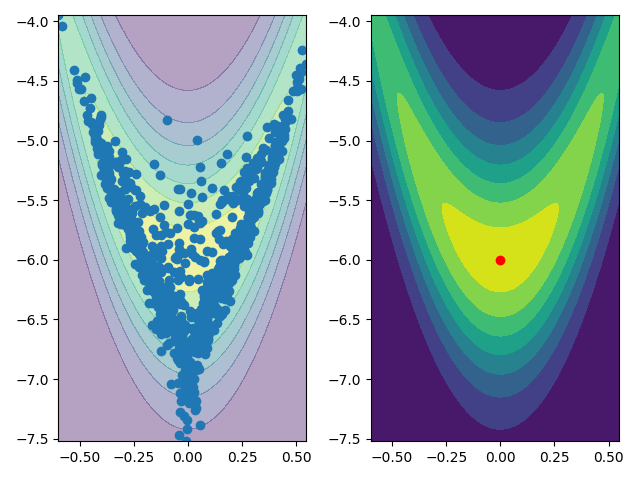
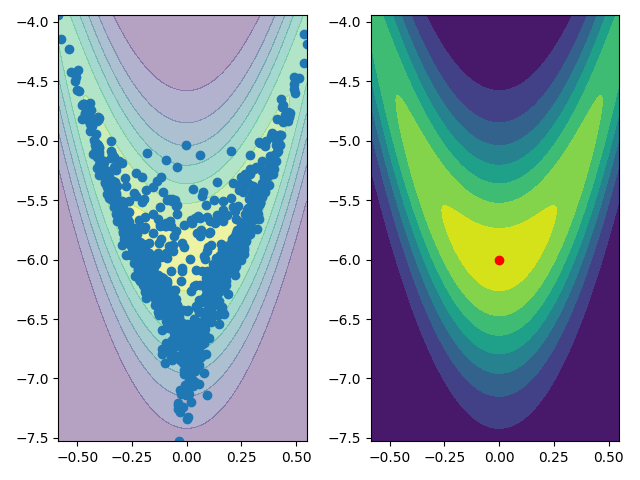
update

diff --git a/rala/laplace.py b/rala/laplace.py
@@ -23,7 +23,18 @@ class LaplaceMethod(Enum):
     OPT = "opt"  # Optimization-based Laplace approximation.
 
 
-def spectral_decomp(m: jax.Array, min: float = 1e-6, max: float = 1e8):
+@struct.dataclass
+class LaplaceOptions:
+    rwmc_refine: bool = False
+    hmc_refine: bool = False
+
+    min_hessian_eigenvalue: float = 1e-6
+    max_hessian_eigenvalue: float = 1e8
+
+    find_map: bool = False
+
+
+def stable_spectral_inverse(m: jax.Array, min: float = 1e-6, max: float = 1e8):
     # Ensure the eigenvalues of the matrix m are in between `min` and `max`
     out = jnp.linalg.eigh(m)
 
@@ -43,6 +54,19 @@ def sample_from_gaussian(
     flat_mean = mean.ravel()
     delta = cov_L @ z
     return (flat_mean + delta).reshape(mean.shape)
+
+
+def get_hmc_config(key: jax.Array, samples: jax.Array):
+    return HMCConfig(
+        initial_step_size=0.01,
+        max_path_len=1,
+        iterations=50,
+        initial_precm=jnp.cov(samples, rowvar=False),
+        key=key,
+        fast_tuning_steps=0,
+        slow_tuning_phases=0,
+        slow_tuning_initial_length=0,
+    )
 
 
 @partial(jax.jit, static_argnames=("logp_fn_flat", "dim"))
@@ -193,22 +217,36 @@ def find_map(
     return theta
 
 
+def ravel_model(model: nnx.Module):
+    param_state = nnx.state(model, nnx.Param)
+
+    graphdef = nnx.graphdef(model)
+    theta_map, unravel = ravel_pytree(param_state)
+    return graphdef, theta_map, unravel
+
+
+def get_hessian(graphdef, theta_map, unravel, extra_state, logp_fn):
+    def loss_fn(theta):
+        state_unflat = unravel(theta)
+        model_reconstructed = nnx.merge(graphdef, state_unflat, extra_state)
+        return -logp_fn(model_reconstructed)
+
+    return jax.hessian(loss_fn)(theta_map)
+
+
 def laplace_approximation(
     logp_fn: Callable[[nnx.Module], float],
     model: nnx.Module,
     key: jax.Array,
     num_samples: int,
     method: LaplaceMethod = LaplaceMethod.STANDARD,
+    hessian_fn: callable = None,
     metric_fn: callable = None,
-    rwmc_refine: bool = False,
-    hmc_refine: bool = False,
+    options: LaplaceOptions = LaplaceOptions(),
     extra_state: nnx.State = nnx.State({}),
-    min_eigenvalue: float = 1e-6,
 ) -> tuple[nnx.State, nnx.GraphDef, jax.Array]:
-    param_state = nnx.state(model, nnx.Param)
-
-    graphdef = nnx.graphdef(model)
-    theta_map, unravel = ravel_pytree(param_state)
+    graphdef, theta_map, unravel = ravel_model(model)
+    (dim,) = theta_map.shape
 
     @jax.jit
     def log_p_flat(theta, extra_state: struct.PyTreeNode):
@@ -220,21 +258,30 @@ def laplace_approximation(
     def neg_log_p_flat(theta, extra_state: struct.PyTreeNode):
         return -log_p_flat(theta, extra_state)
 
-    theta_map = find_map(
-        partial(neg_log_p_flat, extra_state=extra_state),
-        theta_map,  # pre-trained weights as warm start
-    )
+    if hessian_fn is None:
+        hessian = get_hessian(
+            graphdef, theta_map, unravel, extra_state, logp_fn
+        )
+    else:
+        hessian = hessian_fn(model, extra_state=extra_state)
 
-    (dim,) = theta_map.shape
-    hessian = jax.hessian(partial(neg_log_p_flat, extra_state=extra_state))(
-        theta_map
+    if options.find_map:
+        # This should further stabilize the gradients and the Hessian inversion
+        theta_map = find_map(
+            partial(neg_log_p_flat, extra_state=extra_state),
+            theta_map,  # pre-trained weights as warm start
+        )
+
+    cov_sqrtm = stable_spectral_inverse(
+        hessian,
+        min=options.min_hessian_eigenvalue,
+        max=options.max_hessian_eigenvalue,
     )
-    hessian_L = spectral_decomp(hessian, min=min_eigenvalue)
 
     key, *keys = jax.random.split(key, num_samples + 1)
     keys = jnp.array(keys)
 
-    samples = sample_from_gaussian(keys, theta_map, hessian_L)
+    samples = sample_from_gaussian(keys, theta_map, cov_sqrtm)
 
     match method:
         case LaplaceMethod.RIEMANN:
@@ -260,24 +307,15 @@ def laplace_approximation(
             )
             samples = fexpmap(samples, theta_map, metric_fn, dim)
 
-    if rwmc_refine:
+    if options.rwmc_refine:
         config = RandomWalkConfig(key=key, iterations=100, tuning_steps=10)
         samples = random_walk(
             partial(neg_log_p_flat, extra_state=extra_state), samples, config
         )
         samples = samples[-1]
 
-    if hmc_refine:
-        config = HMCConfig(
-            initial_step_size=0.01,
-            max_path_len=1,
-            iterations=50,
-            initial_precm=jnp.cov(samples, rowvar=False),
-            key=key,
-            fast_tuning_steps=0,
-            slow_tuning_phases=0,
-            slow_tuning_initial_length=0,
-        )
+    if options.hmc_refine:
+        config = get_hmc_config(key, samples)
         _, samples = hmc(
             partial(neg_log_p_flat, extra_state=extra_state), samples, config
         )

diff --git a/examples/regression.py b/examples/regression.py
@@ -9,7 +9,12 @@ import jax.numpy as jnp
 import matplotlib.pyplot as plt
 import typer
 
-from rala.laplace import LaplaceMethod, laplace_approximation
+from rala.laplace import (
+    LaplaceMethod,
+    LaplaceOptions,
+    laplace_approximation,
+    ravel_model,
+)
 from rala.models import MLP, Buffer, ExtraParamsWrapper, MLPLastLayer
 from rala.train import train
 from rala.utils import show_kitty
@@ -77,7 +82,6 @@ def log_prior_fn(
     return log_prior
 
 
-@nnx.jit
 def log_p(model: nnx.Module, X: jax.Array, y: jax.Array):
     # We compute the likelihood for data point
     y_pred = model(X)
@@ -87,13 +91,66 @@ def log_p(model: nnx.Module, X: jax.Array, y: jax.Array):
     return (log_lik + log_prior).sum()
 
 
-def plot_model_1d(model: MLP[ExtraParams], x_obs: jax.Array):
+def plot_model_1d(
+    model: MLP[ExtraParams],
+    x_obs: jax.Array,
+    alpha: float = 1,
+    c: str = None,
+):
     # Create a grid to plot
     x_grid = jnp.linspace(x_obs.min(), x_obs.max(), num=200)
     x_grid = jnp.expand_dims(x_grid, axis=1)
     y_pred = model(x_grid)
 
-    plt.plot(x_grid, y_pred, label="model")
+    plt.plot(x_grid, y_pred, label="model", c=c, alpha=alpha)
+
+
+def ggn(
+    model: nnx.Module,
+    extra_state: nnx.State,
+    X: jax.Array,
+    y: jax.Array,
+):
+    # Compute the Hessian of the loss wrt model outputs
+    hessian_fn = jax.hessian(partial(log_lik_fn, model=model), argnums=0)
+
+    # Compute the Jacobian of the model wrt parameters
+    graphdef, theta_map, unravel = ravel_model(model)
+
+    def model_fn(theta: jax.Array, x: jax.Array, extra_state: nnx.State):
+        state_unflat = unravel(theta)
+        model_reconstructed = nnx.merge(graphdef, state_unflat, extra_state)
+        return model_reconstructed(x)
+
+    jacobian_fn = jax.jacobian(
+        partial(model_fn, extra_state=extra_state), argnums=0
+    )
+
+    @partial(jax.vmap, in_axes=(None, 0, 0, 0), out_axes=0)
+    def ggn_single(
+        theta_map: nnx.Module,
+        x: jax.Array,
+        y_pred: jax.Array,
+        y_true: jax.Array,
+    ):
+        H_i = -hessian_fn(y_pred[None, ...], y_true).squeeze(axis=(0, 2))
+        J_i = jacobian_fn(theta_map, x[None, ...]).squeeze(axis=0)
+        return J_i.T @ H_i @ J_i
+
+    # Compute the prior's Hessian
+    def log_prior_from_theta(theta: jax.Array, extra_state: nnx.State):
+        state_unflat = unravel(theta)
+        model_reconstructed = nnx.merge(graphdef, state_unflat, extra_state)
+        return log_prior_fn(model_reconstructed)
+
+    log_prior_hessian = jax.hessian(
+        partial(log_prior_from_theta, extra_state=extra_state)
+    )(theta_map)
+
+    # Evaluate the functions
+    G = ggn_single(theta_map, X, model(X), y).sum(axis=0) - log_prior_hessian
+
+    return G
 
 
 @app.command()
@@ -107,6 +164,9 @@ def main(
     method: LaplaceMethod = LaplaceMethod.STANDARD,
     last_layer: bool = False,
     rwmc: bool = False,
+    find_map: bool = False,
+    use_ggn: bool = False,
+    min_eig: float = 1e-6,
 ):
 
     match dataset:
@@ -144,6 +204,9 @@ def main(
 
     extra_state = nnx.state(model, nnx.Any(ExtraParamsWrapper, Buffer))
 
+    options = LaplaceOptions(
+        rwmc_refine=rwmc, find_map=find_map, min_hessian_eigenvalue=min_eig
+    )
     samples, graphdef, _ = laplace_approximation(
         partial(log_p, X=X, y=y),
         model,
@@ -151,17 +214,18 @@ def main(
         num_samples=num_samples,
         method=method,
         extra_state=extra_state,
-        rwmc_refine=rwmc,
-        min_eigenvalue=1e-6,
+        options=options,
+        hessian_fn=partial(ggn, X=X, y=y) if use_ggn else None,
     )
 
     match dataset:
         case DataEnum.SNELSON:
             x_obs = X.squeeze(axis=1)
+            plot_model_1d(model, x_obs, alpha=1, c="orange")
             for i in range(num_samples):
                 sample = jax.tree_util.tree_map(lambda x: x[i], samples)
                 model_from_sample = nnx.merge(graphdef, sample, extra_state)
-                plot_model_1d(model_from_sample, x_obs)
+                plot_model_1d(model_from_sample, x_obs, alpha=0.2, c="teal")
             plt.scatter(x_obs, y)
             show_kitty()
 

diff --git a/examples/sampling.py b/examples/sampling.py
@@ -7,7 +7,7 @@ import jax.scipy.optimize as jspo
 import matplotlib.pyplot as plt
 import typer
 
-from rala.laplace import LaplaceMethod, laplace_approximation
+from rala.laplace import LaplaceMethod, LaplaceOptions, laplace_approximation
 from rala.models import LogPosterior
 from rala.utils import plot_potential, show_kitty
 
@@ -18,7 +18,9 @@ def banana_log_density(x, b: float = 6):
     return -log_p
 
 
-def squiggle_log_density(x, a: float = 1.5, cov: jax.Array = jnp.array([[5, 0], [0, 0.05]])):
+def squiggle_log_density(
+    x, a: float = 1.5, cov: jax.Array = jnp.array([[5, 0], [0, 0.05]])
+):
     y = jnp.array([x[0], x[1] + jnp.sin(a * x[0])])
     y_inv = jnp.linalg.solve(cov, y)
     return -jnp.dot(y, y_inv) / 2
@@ -41,14 +43,21 @@ def to_hausdorff(logp_fn: callable):
     return logp_hausdorff
 
 
-def plot_samples(samples: jax.Array, x_map: jax.Array, logp_fn: callable, filename: str = None):
+def plot_samples(
+    samples: jax.Array,
+    x_map: jax.Array,
+    logp_fn: callable,
+    filename: str = None,
+):
     # Plot the samples
     samples = samples[~jnp.isnan(samples).any(axis=1)]
     xmin, xmax = samples[:, 0].min(), samples[:, 0].max()
     ymin, ymax = samples[:, 1].min(), samples[:, 1].max()
 
     ax = plt.subplot(1, 2, 1)
-    plot_potential(xmin, xmax, ymin, ymax, res=2000, logp_fn=logp_fn, ax=ax, alpha=0.4)
+    plot_potential(
+        xmin, xmax, ymin, ymax, res=2000, logp_fn=logp_fn, ax=ax, alpha=0.4
+    )
     ax.scatter(samples[:, 0], samples[:, 1])
     ax = plt.subplot(1, 2, 2)
     plot_potential(xmin, xmax, ymin, ymax, res=2000, logp_fn=logp_fn, ax=ax)
@@ -101,6 +110,7 @@ def main(
     # Instantiate the distribution
     model = LogPosterior(x_map)
 
+    options = LaplaceOptions(rwmc_refine=rwmc, hmc_refine=hmc)
     # Compute the Laplace Approximation
     key = jax.random.key(seed)
     samples, _, key = laplace_approximation(
@@ -111,8 +121,7 @@ def main(
         key=key,
         num_samples=num_samples,
         method=method,
-        rwmc_refine=rwmc,
-        hmc_refine=hmc,
+        options=options,
     )
     samples = samples["theta"].get_value()
 
